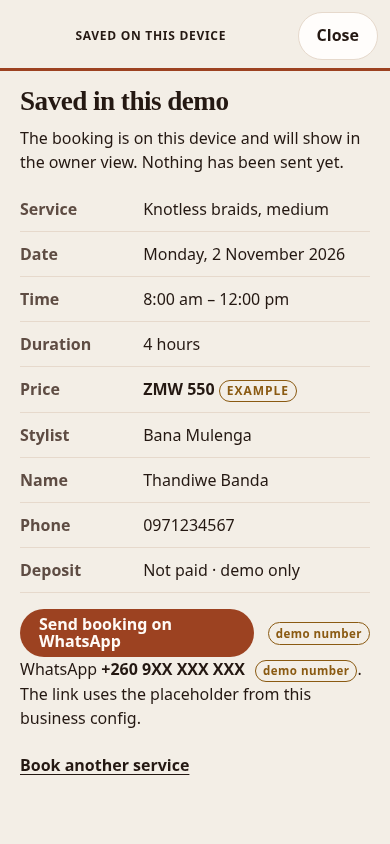
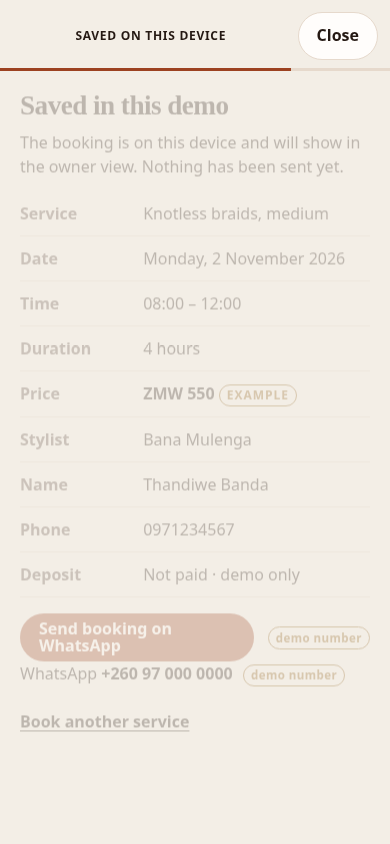
docs: describe the 24-hour times and the demo number
Update the readme and the mobile screenshots for the tidy-up.

diff --git a/README.md b/README.md
@@ -56,7 +56,7 @@ Switching is the `config` query parameter. To make another file the default, cha
 
 The JSON sets the name, area, tagline, initials, address, colours (`theme` CSS variables), light or dark `colorScheme`, the WhatsApp placeholder, opening hours, staff, services, deposit mock and gallery. Colours on the page come from those variables.
 
-`phone.whatsappE164` is the number used in the `wa.me` link. In every shipped preset it is `260970000000`, which is a **placeholder, not a real WhatsApp account**. `phone.display` is what people see. The demos show `+260 9XX XXX XXX`. Replace both fields together when this is no longer a demo.
+`phone.whatsappE164` is the only phone number. In every shipped preset it is `260970000000`, a **placeholder, not a real WhatsApp account**. The page formats those same digits as `+260 97 000 0000` and labels them **demo number**. The WhatsApp link uses the same digits. Replace this one value when this is no longer a demo.
 
 Leave the demo banner in place until the business, prices and bookings are real. The pages also send `noindex` so the fictional prices are less likely to be indexed. Remove that meta tag for a real business.
 
@@ -67,7 +67,7 @@ Sample bookings and blocked times live in `public/data/seed.json`, keyed by the 
 1. Pick a service. Prices show the kwacha amount and the word example.
 2. Optionally pick a staff member, or leave no preference.
 3. Pick a date. Closed days are visible and cannot be selected.
-4. Pick a time. Open times are clickable. A booked or impossible time stays on the grid in grey, labelled unavailable. A long run collapses into one row, such as `Fully booked 08:00-14:00`.
+4. Pick a time. Open times use 24-hour `HH:MM`. Grey times cannot be booked. A peach row is a longer booked stretch, such as `Fully booked 08:00-14:00`.
 5. Enter a name and phone number, then review the booking.
 6. Optionally open the Mobile Money step. It lists MTN MoMo, Airtel Money and Zamtel. It is marked **Demo**. Nothing is charged and nothing is sent to a provider. This step comes after the review.
 7. Confirm on WhatsApp. The booking is saved in this browser and a `wa.me` link is built with the service, date, time, duration, example price, name and phone. The number is read from the config and labelled **demo number**.
@@ -122,7 +122,7 @@ Opening hours are keyed by weekday. `null` means closed. `breaks` are times the 
 
 ### Seed file
 
-`public/data/seed.json` uses `dayOffset` from today in Lusaka, not a fixed calendar date. The offset counts **open** days: `0` is today when today is open, otherwise the next open day, and a negative offset walks backward through open days. Closed days, such as Sunday at the salon, never receive sample bookings or blocks. Each preset has exactly one `no-show`, on that open “today”, so the no-show count is visible. The sample is rebuilt when the calendar day changes; bookings you added stay.
+`public/data/seed.json` uses `dayOffset` from today in Lusaka, not a fixed calendar date. The offset counts **open** days: `0` is today when today is open, otherwise the next open day, and a negative offset walks backward through open days. Closed days, such as Sunday at the salon, never receive sample bookings or blocks. Each preset has exactly one `no-show`, and a block, on that next open day. When today is closed, the owner schedule and the customer date picker open on that day so the sample is visible immediately. The sample is rebuilt when the calendar day changes; bookings you added stay.
 
 ```json
 {
